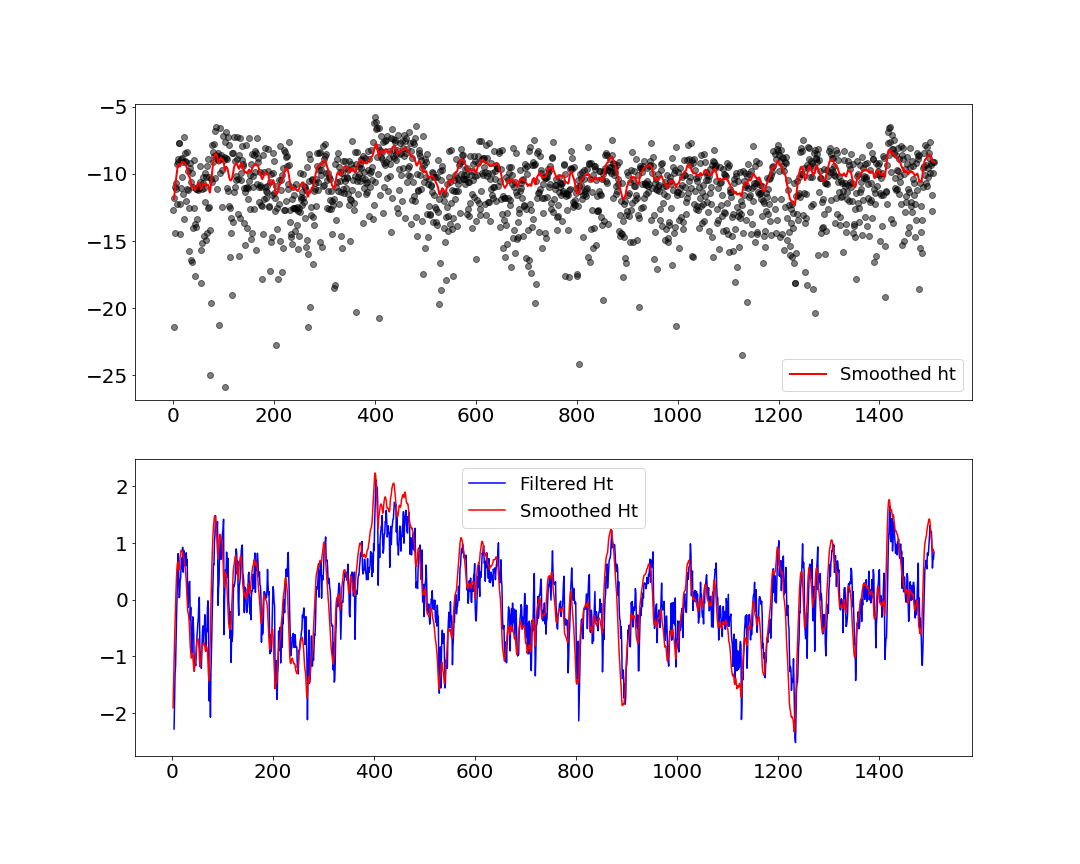
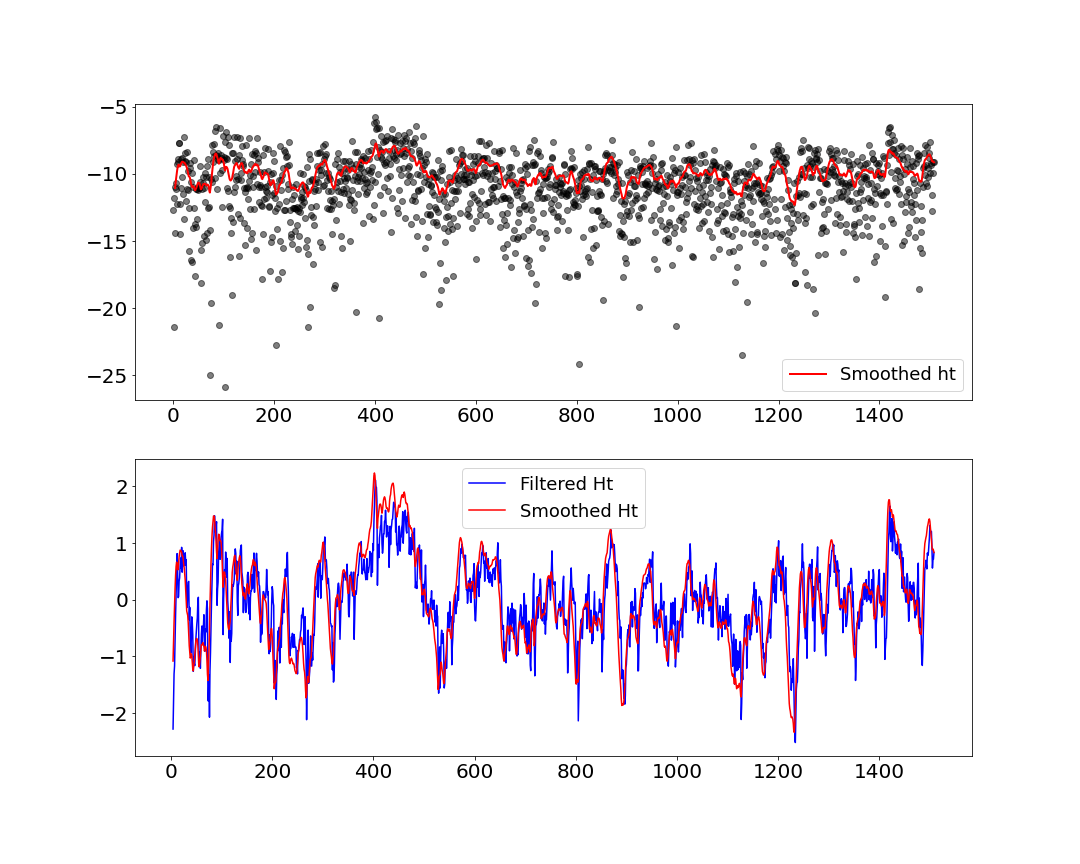
Resolved issue with beta smoothing

Changed region(s): [[0.1528, 0.5625, 0.7944, 0.8438], [0.3361, 0.875, 0.3667, 0.9062], [0.1528, 0.875, 0.1833, 0.9062]]

diff --git a/Scripts/SSM_SV.py b/Scripts/SSM_SV.py
@@ -3,17 +3,9 @@ import numpy as np
 from scipy.optimize import minimize
 class SSM_SV:
     def __init__(self, data:pd.DataFrame, H_t:float=None, c_t:float=None, Q_t:float=None, d_t:float=None,T_t:float=None,R_t:float=None, a_1:float=None, P_1:float=None, theta0:list=None):
-        """Initialize Local Level Model Object
-        Args:
-            
-            q0 (list, optional): Starting value for q for maximum likelihood estimation of form [q0]
+        """Initialize State Space Model for Stochastic Volatility
 
-        Args:
-            data (pd.DataFrame): 
-            H_t (float, optional): 
-            Q_t (float, optional): . Defaults to None.
-
-            
+        Args:            
             data (pd.DataFrame): Time Series Data
             H_t (float, optional): Variance of Epsilon. Defaults to None.
             c_t (float, optional): Trend of observation equation. Defaults to None.
@@ -29,7 +21,7 @@ class SSM_SV:
         # Assign attributes of the data and the number of observations    
         self.df = data.copy(deep=True)
         self.N = self.df.shape[0]
-        self.c_t = c_t
+        self.c_t = c_t * np.ones(self.N)
         self.H_t = H_t
         
         # If the desired parameters are not specified, then we estimate them through maximum likelihood
@@ -40,13 +32,14 @@ class SSM_SV:
             self.d_t = mle_results[1] # Omega from MLE
             self.T_t = mle_results[2] # Phi from MLE
         else:
-            self.Q_t = Q_t # Var E hat updated in MLE
-            self.d_t = d_t # Omega from MLE
-            self.T_t = T_t # Phi from MLE
+            # We take the inputted ones
+            self.Q_t = Q_t 
+            self.d_t = d_t 
+            self.T_t = T_t 
         
         self.R_t = np.sqrt(self.Q_t) # Calculate sigma_eta
         self.xi = self.d_t/(1-self.T_t) # Calculate xi
-        self.d_t = self.d_t * np.ones(self.N) # Turn d_t into a vector (as it will be time dependent when Beta is used)
+        self.d_t = self.d_t # Turn d_t into a vector (as it will be time dependent when RV is used)
         
         # If starting values for P and a are not specified, we use diffuse initialization
         if a_1 is None or P_1 is None:
@@ -66,7 +59,7 @@ class SSM_SV:
             H_t (float): Variance of Epsilon
             Q_t (float): Variance of Eta
             T_t (_type_): phi
-            c_t (float): 
+            c_t (float): observation equation trend
             d_t (float): omega
             R_t (float): sigma_eta
 
@@ -112,7 +105,7 @@ class SSM_SV:
             
             # Apply the filter and save updated values for next iteration
             a_tt, P_tt, a_t, P_t, v_t, F_t, K_t = self.k_filter(y_t=y_t,a_t=a_t,P_t=P_t,H_t=self.H_t,
-                                                       Q_t=self.Q_t,T_t=self.T_t,c_t=self.c_t,d_t=self.d_t[t], R_t = self.R_t)
+                                                       Q_t=self.Q_t,T_t=self.T_t,c_t=self.c_t[t],d_t=self.d_t, R_t = self.R_t)
             
             # Store output
             self.df.loc[t, var_names] = [a_tt, P_tt, v_t, F_t, K_t]
@@ -131,6 +124,7 @@ class SSM_SV:
         self.df['L_t'+b] = self.T_t - self.df['K_t'+b]
         
         # Initialize columns for recursion
+        
         self.df[['r_t'+b,'N_t'+b, 'alpha_hat_t'+b]] = np.nan
 
         # Smoothing goes in reverse (from t=n to t=1)
@@ -139,6 +133,7 @@ class SSM_SV:
                 self.df.loc[t, ['r_t'+b, 'N_t'+b]] = [0,0]
             else:
             # Apply the formulas using t+1 when necessary
+            # We know N_t isn't required for this assignment, but we are including it for flexibility in the future
                 self.df.loc[t, 'N_t'+b] = (1 / self.df.loc[t+1, 'F_t'+b]) + ((self.df.loc[t+1, 'L_t'+b] ** 2) * self.df.loc[t+1, 'N_t'+b])
                 self.df.loc[t, 'r_t'+b] = (self.df.loc[t+1, 'v_t'+b] / self.df.loc[t+1, 'F_t'+b]) + \
                                         (self.df.loc[t+1, 'L_t'+b] * self.df.loc[t+1, 'r_t'+b])
@@ -192,7 +187,7 @@ class SSM_SV:
         self.kalman_filter(var_names=['a_y_t','P_y_t','v_star_t','F_y_t','K_y_t'], y_name='y_t')
         
         # run the kalman filter with Xt + dt = log(RV_t) + dt as the observation
-        self.df['X_t_plus_d_t'] = self.df['X_t'] + self.d_t
+        self.df['X_t_plus_d_t'] = self.df['X_t'] + self.d_t # create new observation variable
         self.kalman_filter(var_names=['a_x_t','P_x_t', 'x_star_t','F_x_t','K_x_t'], y_name='X_t_plus_d_t')
         
         # Equation 6.2 to estimate beta 
@@ -200,7 +195,7 @@ class SSM_SV:
             np.sum(self.df['x_star_t'] / self.df['F_y_t'] * self.df['x_star_t']) 
         
         # Update dt to now how B*Xt + dt in it
-        self.d_t = self.Beta * self.df['X_t'] + self.d_t
+        self.c_t = self.Beta * self.df['X_t'] + self.c_t
         print(f'Beta: {self.Beta}')
 
     

diff --git a/Scripts/Part2_Figures.py b/Scripts/Part2_Figures.py
@@ -55,14 +55,30 @@ def part_d_fig(ssm, data, beta = ''):
 
     fig, axes = plt.subplots(2,1, figsize=(15,12))
     axes[0].scatter(ssm.df.index, ssm.df['y_t'], color='black', alpha=.5)
-    axes[0].plot(ssm.df.loc[2:, 'alpha_hat_t' + beta], 'red', linewidth=2, label = 'Smoothed ht')
+    axes[0].plot(ssm.df.loc[4:, 'alpha_hat_t' + beta], 'red', linewidth=2, label = 'Smoothed ht')
     axes[0].legend(loc='lower right', prop={'size': 18})
     axes[0].tick_params(axis='both', labelsize=TICK_SIZE)
 
-    # Ht = ht - xi WHERE xi = w/(1-phi) = -10.2089 from QML
-    axes[1].plot(ssm.df.loc[4:, 'a_t'] - ssm.xi, 'blue', label = 'Filtered Ht')
-    axes[1].plot(ssm.df.loc[2:, 'alpha_hat_t' + beta] - ssm.xi, 'red', label = 'Smoothed Ht')
-    axes[1].legend(prop={'size': 18})
-    axes[1].tick_params(axis='both', labelsize=TICK_SIZE)
+    
+    if beta == '':
+        # If this is not the plot with beta and rv, plot filtered Ht and smoothed Ht
+        
+        # Ht = ht - xi WHERE xi = w/(1-phi) = -10.2089 from QML
+        axes[1].plot(ssm.df.loc[4:, 'a_t' + beta] - ssm.xi, 'blue', label = 'Filtered Ht')
+        axes[1].plot(ssm.df.loc[4:, 'alpha_hat_t' + beta] - ssm.xi, 'red', label = 'Smoothed Ht')
+        axes[1].legend(prop={'size': 18})
+        axes[1].tick_params(axis='both', labelsize=TICK_SIZE)
+        
+        plt.savefig(f'{FIG_PATH}/part_d_{data}{beta}.png')
+        
+    else:
+        # If this is the plot with beta and rv, plot the data vs the smoothed ht added to the trend
 
-    plt.savefig(f'{FIG_PATH}/part_d_{data}{beta}.png')
+        axes[1].scatter(ssm.df.index, ssm.df['y_t'], color='black', alpha=.5)
+        axes[1].plot(ssm.c_t[2:] + ssm.df.alpha_hat_t_beta[2:], color = 'red', 
+                     label = 'Smoothed ht + Trend ct', alpha = .8)
+        axes[1].legend(prop={'size': 18})
+        axes[1].tick_params(axis='both', labelsize=TICK_SIZE)
+        
+        plt.savefig(f'{FIG_PATH}/Part_e_smoothed_beta.png')
+

diff --git a/Scripts/Part2_main.py b/Scripts/Part2_main.py
@@ -22,11 +22,11 @@ sv['x_t'] = np.log((sv['y_t']-mu) ** 2) # Transform returns
 # %%
 df_sv = sv[['x_t']].rename(columns={'x_t': 'y_t'}).copy(deep=True)
 sv_ssm = SSM_SV(data = df_sv, H_t = (np.pi ** 2) / 2, c_t = -1.27, 
+                #theta0=[0.8,0.0077,0.995] # Our initial values used in QML
                   Q_t = 0.04006997037080177,
                   d_t = -0.1186102356182056,
-                  T_t = 0.9883814337893937,
-                 )#,
-                  #theta0=[0.8,0.0077,0.995])
+                  T_t = 0.9883814337893937
+                 )
 
 # %%
 sv_ssm.kalman_filter()
@@ -69,7 +69,7 @@ rv['X_t'] = np.log(rv[rv_measure]) # Calculate log of RV measure to be used as X
 # Create state space model with this new data
 df_rv = rv[['X_t', 'x_t']].rename(columns={'x_t': 'y_t'}).copy(deep=True)
 rv_ssm = SSM_SV(data = df_rv, H_t = (np.pi ** 2) / 2, c_t = -1.27, 
-                # theta0=[0.8,0.0077,0.995]
+                # theta0=[0.8,0.0077,0.995] # Our initial values used in QML
                   Q_t = 0.4247156788750475,
                   d_t = -0.8739300473341086,
                   T_t = 0.9122642976429152
@@ -95,12 +95,5 @@ rv_ssm.state_smooth(beta=True)
 # %%
 p2f.part_d_fig(rv_ssm, data = 'rv', beta = '_beta')
 
+
 # %%
-
-fig, axes = plt.subplots(2,1, figsize=(15,12))
-axes[0].plot(rv_ssm.df.a_t[4:] - rv_ssm.xi, 'blue', label = 'Filtered Ht')
-axes[0].legend()
-
-axes[1].plot(rv_ssm.df.alpha_hat_t[2:] - rv_ssm.xi, 'red', label = 'Smoothed Ht')
-axes[1].legend()
-
